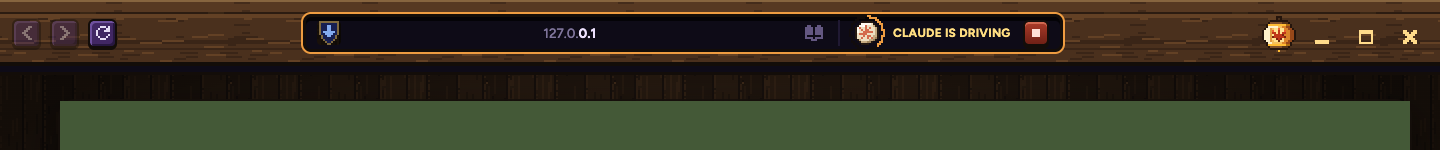
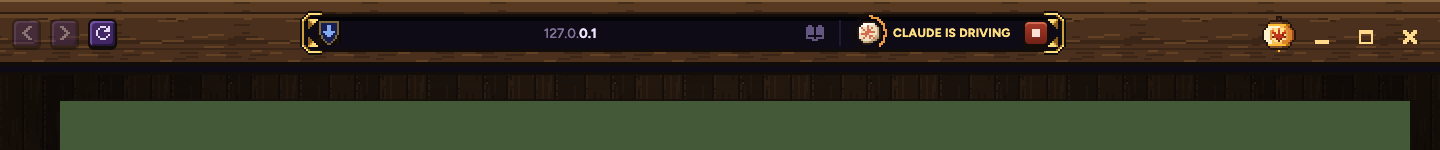
Sheet 97 v2: the slop taken out (one rune size everywhere, no outlines or glove, gold corners while watching, rune carved in the handle, the real hanging ask, lantern light evened)

diff --git a/src/Shell/test/electron/sheet97-shot.ts b/src/Shell/test/electron/sheet97-shot.ts
@@ -33,33 +33,59 @@ const PLANK = `.band{height:66px !important;background-size:128px 52px !importan
 const C = { working: '#f0a64a', needs: '#7cc4ff' };
 // The address bar's end: the new rune (36 px, its ring in the state's colour). Watching Claude's tab: one label, the rune,
 // CLAUDE IS DRIVING and STOP, and the bar's edge ringed in the same colour, two whole pixels, no blur.
-const COLOR_BAR = (state: 'working' | 'needs', watching: boolean) => `(() => { ${ART}
-  const COL = '${C[state]}';
-  const cv = (w, h) => { const c = document.createElement('canvas'); c.width = w * 2; c.height = h * 2; c.style.cssText = 'display:block;flex:none;image-rendering:pixelated'; const g = c.getContext('2d'); return [c, (x, y, col) => { g.fillStyle = col; g.fillRect(x * 2, y * 2, 2, 2); }]; };
+// v2 (his "what about this design feels AI slop"): one rune, one size (36 px, its ring in the state's colour) in the bar,
+// on Claude's row and on its trail; no outlines anywhere; watching, the address bar's corners are the gold caps the tab
+// list's panels wear, taking the state's colour; the handle carries the rune's stone carved in, ringed in the colour,
+// drawn in whole pixels; "needs you" is Samara's real hanging ask (sheet 86's family, .bandchip.kind).
+const CV = `const cv = (w, h, s = 2) => { const c = document.createElement('canvas'); c.width = w * s; c.height = h * s; c.style.cssText = 'display:block;flex:none;image-rendering:pixelated'; const g = c.getContext('2d'); return [c, (x, y, col) => { g.fillStyle = col; g.fillRect(x * s, y * s, s, s); }]; };`;
+const RUNE36 = (state: string, p: number, id = '') => `(() => { const [c, P] = cv(18, 18); rune(P, 0, 0, '${state}', ${p}); ${id ? `c.id = '${id}';` : ''} return c; })()`;
+const COLOR_BAR = (state: 'working' | 'needs', watching: boolean) => `(() => { ${ART} ${CV}
   const [lc, lp] = cv(18, 18); lantern(lp); document.getElementById('menukey').replaceChildren(lc);
-  const slot = document.getElementById('slot'); document.getElementById('r97')?.remove();
-  const [rc, rp] = cv(18, 18); rune(rp, 0, 0, '${state}', ${state === 'needs' ? 1 : 0.4}); rc.id = 'r97'; rc.style.margin = '-6px -8px -6px 0';
+  const slot = document.getElementById('slot'); document.getElementById('r97')?.remove(); document.getElementById('caps97')?.remove();
+  const rc = ${RUNE36('${state}', 0, 'r97')}; rc.style.margin = '-5px 0 -5px 2px';
+  if ('${state}' === 'needs') { const g = rc.getContext('2d'); g.clearRect(0, 0, 36, 36); rune((x, y, k) => { g.fillStyle = k; g.fillRect(x * 2, y * 2, 2, 2); }, 0, 0, 'needs', 1); }
+  else { const g = rc.getContext('2d'); g.clearRect(0, 0, 36, 36); rune((x, y, k) => { g.fillStyle = k; g.fillRect(x * 2, y * 2, 2, 2); }, 0, 0, 'working', 0.4); }
   const who = document.getElementById('who');
   if (${watching} && !who.hidden) {
-    // one sign: the rune leads the label, STOP after it; the bar's edge in the state's colour, two whole pixels
-    who.querySelector('.who-ic')?.replaceWith(rc); rc.style.margin = '-8px 0';
-    slot.style.boxShadow = 'inset 0 4px 0 rgba(0,0,0,.7),0 0 0 2px ' + COL;
+    // Samara redraws the label as it goes, so the rune sits just before it and the label's own mark is hidden by style
+    const wr = who.getBoundingClientRect(), sr = slot.getBoundingClientRect();
+    rc.style.cssText += ';position:absolute;z-index:3;top:50%;margin:-18px 0 0 0;left:' + Math.round(wr.left - sr.left + 8) + 'px';
+    slot.append(rc);
+    const caps = document.createElement('i'); caps.id = 'caps97';
+    caps.style.cssText = 'position:absolute;inset:-6px;pointer-events:none;z-index:2;image-rendering:pixelated;background:url(art/browser/cap3_tl.png) left top/22px 22px no-repeat,url(art/browser/cap3_tr.png) right top/22px 22px no-repeat,url(art/browser/cap3_bl.png) left bottom/22px 22px no-repeat,url(art/browser/cap3_br.png) right bottom/22px 22px no-repeat';
+    slot.style.position = 'relative'; slot.style.overflow = 'visible'; slot.append(caps);
   } else slot.append(rc);
   return 1; })()`;
-// The tab list: Claude's trail head wears the rune (no ring) and a left edge in the state's colour; the page Claude is on
-// right now has the FFX glove pointing at it and the same edge. The handle gets a small pip in the state's colour.
-const LIST_JS = (state: 'working' | 'needs', at: number) => `(() => { ${ART}
-  const col = '${C.working}', c2 = '${C.needs}', COL = '${state}' === 'needs' ? c2 : col;
+const LIST_JS = (state: 'working' | 'needs', at: number) => `(() => { ${ART} ${CV}
+  const st = '${state}', p = st === 'needs' ? 1 : 0.4;
   const h = document.querySelector('.th.driver'); if (!h) return 'no trail';
-  const [ic] = [h.querySelector('.who-ic')]; if (ic) { const c = document.createElement('canvas'); c.width = 24; c.height = 24; c.style.cssText = 'display:block;image-rendering:pixelated'; const g = c.getContext('2d'); rune((x, y, k) => { g.fillStyle = k; g.fillRect(x * 2, y * 2, 2, 2); }, 0, 0, '${state}', 1, false); ic.replaceChildren(c); }
-  h.style.boxShadow = 'inset 4px 0 0 ' + COL;
+  const ic = h.querySelector('.who-ic'); if (ic) { const [c, P] = cv(18, 18); rune(P, 0, 0, st, p); c.style.margin = '-8px 0'; ic.replaceWith(c); }
   const rows = [...document.querySelectorAll('.tp.drv')]; const r = rows[${at}]; if (!r) return 'no rows ' + rows.length;
-  r.style.boxShadow = 'inset 4px 0 0 ' + COL + ', 0 0 0 2px ' + COL; r.style.position = 'relative'; r.style.marginLeft = '30px';
-  const gl = document.createElement('i'); gl.style.cssText = 'position:absolute;left:-32px;top:50%;width:24px;height:18px;margin-top:-9px;background:url(art/browser/hand.png) 0 0/24px 18px;image-rendering:pixelated'; r.append(gl);
-  ${state === 'needs' ? "const t = r.querySelector('.t'); if (t) t.textContent = t.textContent + '  ·  needs you';" : ''}
+  r.style.position = 'relative'; r.style.paddingRight = '44px';
+  const [c, P] = cv(18, 18); rune(P, 0, 0, st, p); c.style.cssText += ';position:absolute;right:4px;top:50%;margin-top:-18px'; r.append(c);
   return 'ok'; })()`;
-const HANDLE_JS = (state: 'working' | 'needs') => `(() => { const b = document.querySelector('.hnd button'); if (!b) return 'no handle';
-  const p = document.createElement('i'); p.id = 'pip97'; p.style.cssText = 'position:absolute;left:10px;top:6px;width:12px;height:12px;background:${C[state]};box-shadow:0 0 0 2px #120A05,inset -2px -2px 0 rgba(0,0,0,.25),inset 2px 2px 0 rgba(255,255,255,.45)'; b.append(p); return 'ok'; })()`;
+// The handle: the rune's stone (12 x 12) carved into the handle's wood, ringed in the state's colour, whole pixels at 2x.
+const HANDLE_JS = (state: 'working' | 'needs') => `(() => { ${ART} ${CV}
+  const b = document.querySelector('.hnd button'); if (!b) return 'no handle';
+  const [c, P] = cv(14, 14); const col = STATE['${state}'];
+  for (let y = 0; y < 14; y++) for (let x = 0; x < 14; x++) { const d = Math.hypot(x - 6.5, y - 6.5); if (d > 5.6 && d <= 6.9) P(x, y, col); }
+  rune((x, y, k) => P(x + 1, y + 1, k), 0, 0, '${state}', 1, false);
+  c.id = 'pip97'; c.style.cssText += ';position:absolute;left:2px;top:4px'; b.append(c); return 'ok'; })()`;
+// "Needs you": Samara's real hanging ask, the OK kind's colour and tag, hung from the rune at the bar's end.
+const ASK_JS = `(() => { ${ART} ${CV}
+  const src = document.getElementById('tvchip'); const a = src.cloneNode(true); a.id = 'ask97'; a.hidden = false; a.classList.remove('k-tv'); a.style.setProperty('--kc', '#1f6fb0');
+  const r = document.getElementById('r97').getBoundingClientRect(), band = document.getElementById('band').getBoundingClientRect();
+  a.style.left = Math.round(r.left - band.left - 20) + 'px'; a.style.width = '330px';
+  const tag = a.querySelector('.tag'); tag.removeAttribute('id'); tag.textContent = '';
+  const ok = ['.........', '.........', '.###.....', '##.##....', '#...#####', '##.##.#.#', '.###..#.#', '.........', '.........'];
+  const [ic, IP] = cv(9, 9); ok.forEach((row, y) => [...row].forEach((ch, x) => { if (ch === '#') IP(x, y, '#7cc4ff'); })); tag.append(ic, 'Needs your OK');
+  const faces = a.querySelector('.faces'); faces.replaceChildren(); const f = document.createElement('span'); f.className = 'face';
+  const [rc, RP] = cv(12, 12); rune(RP, 0, 0, 'needs', 1, false); f.append(rc); faces.append(f);
+  a.querySelector('#tvq').textContent = 'Claude wants to open the checkout';
+  a.querySelector('#tvm').innerHTML = '<b>Compare laptops</b> is on <b>bestbuy.ca</b>. It will only look at the price with tax, and won\\'t buy anything.';
+  const k = a.querySelectorAll('.keys button'); k[0].firstElementChild.textContent = 'Allow once'; k[1].firstElementChild.textContent = 'No';
+  for (const e of a.querySelectorAll('[id]')) e.removeAttribute('id');
+  document.getElementById('band').append(a); const q = a.getBoundingClientRect(); return JSON.stringify({ x: Math.round(q.left), y: Math.round(q.top), w: Math.round(q.width), h: Math.round(q.height) + 16 }); })()`;
 app.whenReady().then(async () => {
   (screen as any).getCursorScreenPoint = () => ({ x: -20000, y: 500 });
   const out = process.argv[process.argv.length - 1];
@@ -99,14 +125,19 @@ app.whenReady().then(async () => {
   b.driverAct('watch', opened[1].page); await wait(2500); await frame('t-watch'); b.driverAct('unwatch', 0); await wait(1200);
   // ---- new
   const key = await fw.insertCSS(PLANK);
-  for (const [st, nm] of [['working', 'n'], ['needs', 'q']] as const) {
-    await fw.executeJavaScript(COLOR_BAR(st, false)); await fw.executeJavaScript(HANDLE_JS(st)); await wait(800);
-    await frame(`${nm}-closed`);
-    await drawer(true); console.log('LIST ' + await b.trayV.webContents.executeJavaScript(LIST_JS(st, 1))); await wait(600); await frame(`${nm}-list`); await drawer(false);
-    await fw.executeJavaScript(`document.getElementById('pip97')?.remove(); 1`);
-    if (st === 'working') { b.driverAct('watch', opened[1].page); await wait(2500); await fw.executeJavaScript(COLOR_BAR(st, true)); await wait(600); await frame('n-watch'); b.driverAct('unwatch', 0); await wait(1200);
-      await fw.executeJavaScript(`document.getElementById('slot').style.boxShadow = ''; 1`); }
-  }
+  const tw = () => b.trayV.webContents;
+  await fw.executeJavaScript(COLOR_BAR('working', false)); console.log('HANDLE ' + await fw.executeJavaScript(HANDLE_JS('working'))); await wait(800);
+  await frame('n-closed');
+  await drawer(true); console.log('LIST ' + await tw().executeJavaScript(LIST_JS('working', 1))); await wait(600); await frame('n-list'); await drawer(false);
+  await fw.executeJavaScript(`document.getElementById('pip97')?.remove(); 1`);
+  b.driverAct('watch', opened[1].page); await wait(2500); const hideKey = await fw.insertCSS('#who .who-ic{display:none !important} #who{padding-left:52px !important}'); await wait(400); await fw.executeJavaScript(COLOR_BAR('working', true)); await wait(600); await frame('n-watch'); await fw.removeInsertedCSS(hideKey); b.driverAct('unwatch', 0); await wait(1200);
+  await fw.executeJavaScript(`document.getElementById('caps97')?.remove(); 1`);
+  await fw.executeJavaScript(COLOR_BAR('needs', false)); console.log('HANDLE ' + await fw.executeJavaScript(HANDLE_JS('needs')));
+  console.log('ASK ' + await fw.executeJavaScript(ASK_JS)); await wait(900);
+  b.win.webContents.send('browser:frozen', null);
+  await frame('q-closed');
+  await fw.executeJavaScript(`document.getElementById('ask97')?.remove(); 1`);
+  await drawer(true); console.log('LIST ' + await tw().executeJavaScript(LIST_JS('needs', 1))); await wait(600); await frame('q-list'); await drawer(false);
   void key;
   site.close(); app.exit(0);
 });

diff --git a/docs/cockpit/sheet-97-claude-in-samara.html b/docs/cockpit/sheet-97-claude-in-samara.html
@@ -8,7 +8,12 @@
      work, what is the current interaction, and how can we add to and improve". His picks: redraw both at the same size;
      the glow follows the rune's colours (amber working, blue needs you, teal done). Every bar and list picture is Samara
      itself (test/electron/sheet97-shot.ts): Claude comparing three laptops in its own hidden tabs while a Claude job runs.
-     The lantern and rune are hand-placed on the keys' grid (sheet-97/art.js), 18 x 18 at 2x. Not built. -->
+     The lantern and rune are hand-placed on the keys' grid (sheet-97/art.js), 18 x 18 at 2x. Not built.
+     v2 (his "what about this design feels AI slop?", then "show me"): the slop taken out. One rune at one size (36 px with
+     its ring) in the bar, on Claude's trail and on the row Claude is on, where the row's close key sits; no outlines
+     anywhere; watching, the address bar wears the gold corner caps of the tab list's panels; the handle has the rune's
+     stone carved in, ringed in its colour, in whole pixels (no flat square); "needs you" is Samara's real hanging ask
+     (sheet 86's family) in the OK kind's colour; the glove is gone (it means his pointer); the lantern's light evened. -->
 <link rel="stylesheet" href="../../src/Shell/pages/cockpit.css">
 <style>
   html,body{background:#17110c;margin:0}
@@ -64,18 +69,19 @@
 <p class="cap">Watching Claude's tab</p><img class="pic" src="sheet-97/t-watch.png" style="width:1080px">
 
 <h2>3 · ONE SIGN, ONE COLOUR</h2>
-<p class="sub">Claude has one look everywhere: the rune. Its colour tells you what's happening, the same colour in every spot: <span class="dot" style="background:#f0a64a"></span>working <span class="dot" style="background:#7cc4ff"></span>needs you <span class="dot" style="background:#3fc4b4"></span>done.</p>
+<p class="sub">Claude has one look everywhere: the rune, always the same size. Its colour tells you what's happening: <span class="dot" style="background:#f0a64a"></span>working <span class="dot" style="background:#7cc4ff"></span>needs you <span class="dot" style="background:#3fc4b4"></span>done. No outlines, no glove, nothing pasted on.</p>
 <p class="cap">The rune lives at the end of the address bar</p>
-<p class="sub">Not by the menu anymore. The lantern is the menu. Its ring fills as the job goes.</p>
+<p class="sub">The lantern is the menu now. The rune's ring fills as the job goes.</p>
 <img class="pic" src="sheet-97/n-closed.png" style="width:1080px">
 <div class="row">
-  <div><p class="cap">A pip on the tab handle</p><p class="sub" style="max-width:240px">With the list closed, you still see Claude is busy in its tabs.</p><img class="pic" src="sheet-97/handle.png" style="width:120px"></div>
-  <div><p class="cap">In the list, the glove points at Claude's page</p><p class="sub" style="max-width:520px">Claude's group wears the rune. The page Claude is on right now gets the glove (the same pointer as your menus) and an edge in the rune's colour.</p><img class="pic" src="sheet-97/n-list.png" style="width:520px"></div>
+  <div><p class="cap">Carved into the tab handle</p><p class="sub" style="max-width:240px">With the list closed, the rune's stone sits in the handle's wood, ringed in its colour.</p><img class="pic" src="sheet-97/handle.png" style="width:120px"></div>
+  <div><p class="cap">In the list, the rune marks Claude's page</p><p class="sub" style="max-width:520px">Claude's group wears the rune. The page Claude is on right now carries it too, where the close key sits. Nothing moves out of line.</p><img class="pic" src="sheet-97/n-list.png" style="width:520px"></div>
 </div>
-<p class="cap">Watching Claude's tab: one label</p>
-<p class="sub">The rune leads CLAUDE IS DRIVING, with Stop after it. The address bar's edge takes the rune's colour, so you can't mistake it for your own tab.</p>
+<p class="cap">Watching Claude's tab</p>
+<p class="sub">The rune leads CLAUDE IS DRIVING, with Stop after it. The address bar wears the same gold corners as your tab list's panels, so it's clearly not your own tab.</p>
 <img class="pic" src="sheet-97/n-watch.png" style="width:1080px">
-<p class="cap">When Claude needs you, everything turns blue together</p>
+<p class="cap">When Claude needs you</p>
+<p class="sub">Everything turns blue together, and Samara's own ask hangs from the rune: what Claude wants, where, and Allow once or No.</p>
 <img class="pic" src="sheet-97/q-closed.png" style="width:1080px">
 <img class="pic" src="sheet-97/q-list.png" style="width:520px;margin-top:12px">
 

diff --git a/docs/cockpit/sheet-97/art.js b/docs/cockpit/sheet-97/art.js
@@ -9,15 +9,15 @@ export const LANTERN = [
   '.....ooooooooo....',
   '....oWWWWWWwwwo...',
   '...ogggggggggGGo..',
-  '...o11111223344o..',
-  '..o11r2hhlhh3344o.',
-  '.o111rlhhLhhl3344o',
-  '.o111rLLhLhLL3344o',
-  '.o111rhLLLLd33344o',
-  '.o111rdLLLLLd3344o',
-  '.o111rhhdLdh33344o',
-  '..o11r2hhshh3344o.',
-  '...o11222223344o..',
+  '...o11111122334o..',
+  '..o1112hhlhh2334o.',
+  '.o111rlhhLhhlr334o',
+  '.o111rLLhLhLLr334o',
+  '.o111rhLLLLdhr334o',
+  '.o111rdLLLLLdr334o',
+  '.o111rhhdLdhhr334o',
+  '..o1112hhsh33334o.',
+  '...o11222223334o..',
   '...ogggggggggGGo..',
   '....oWWWWWWwwwo...',
   '.....ooooooooo....',
